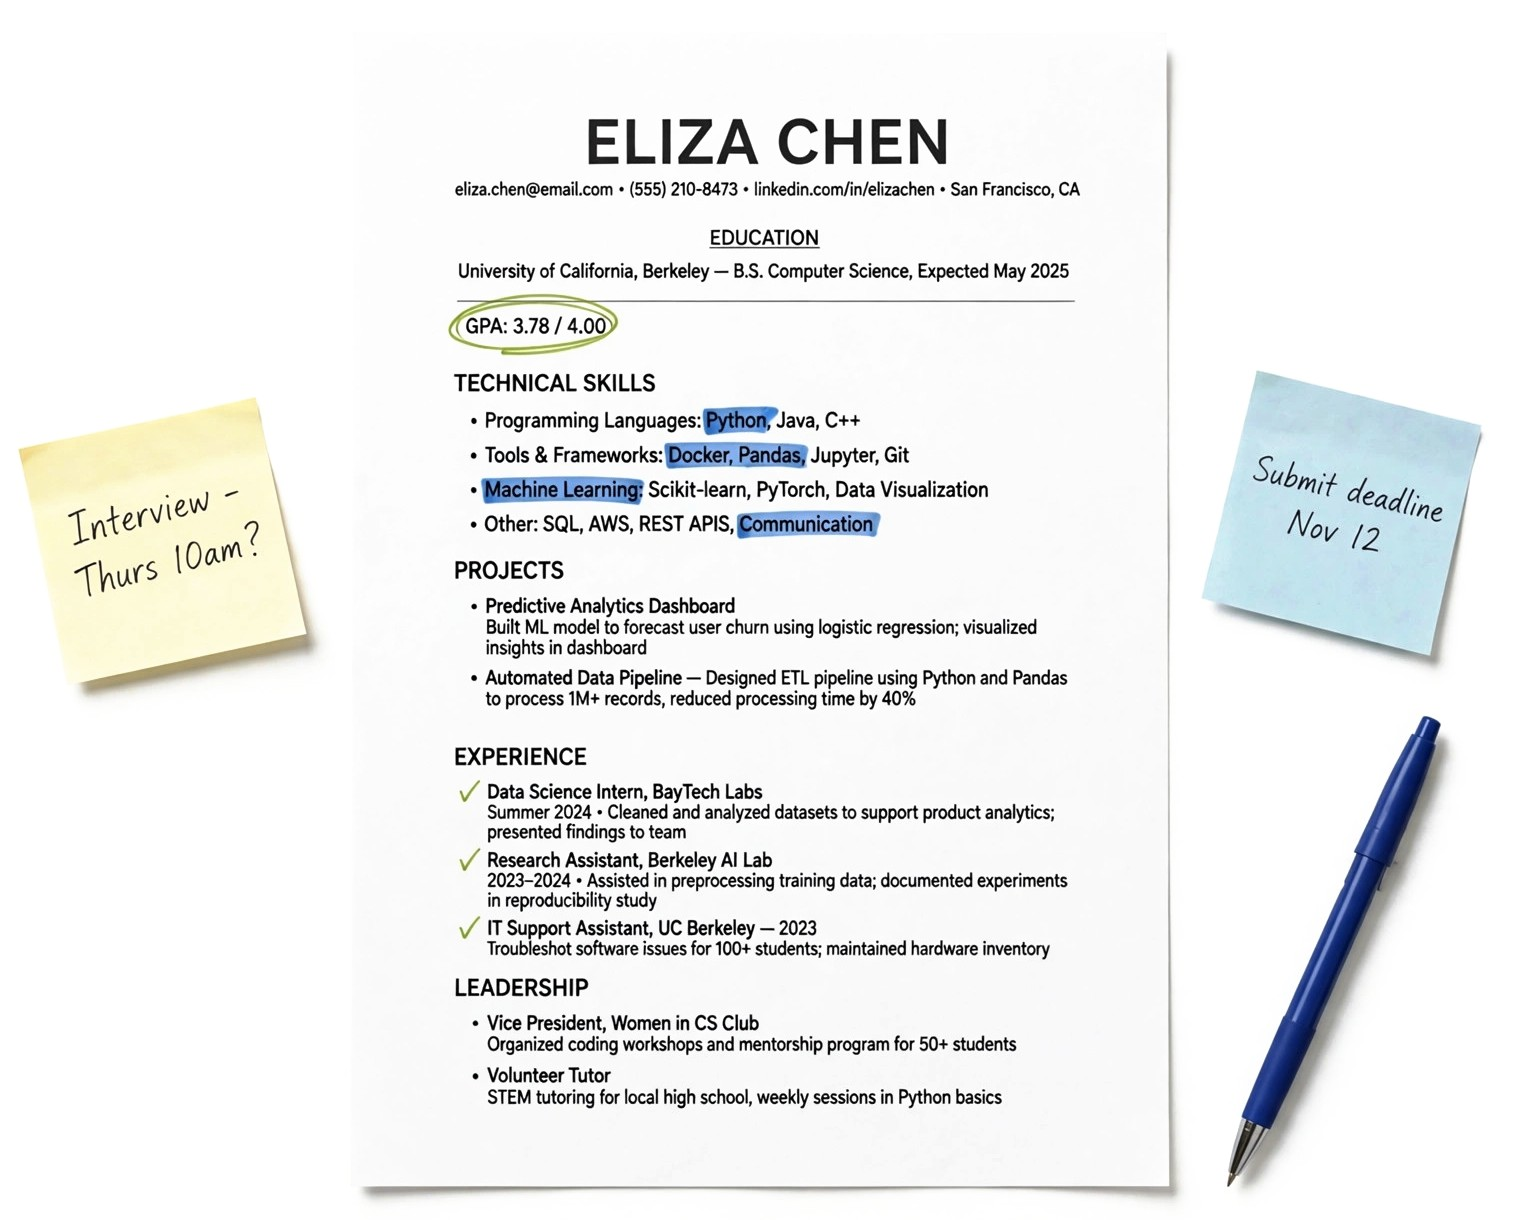
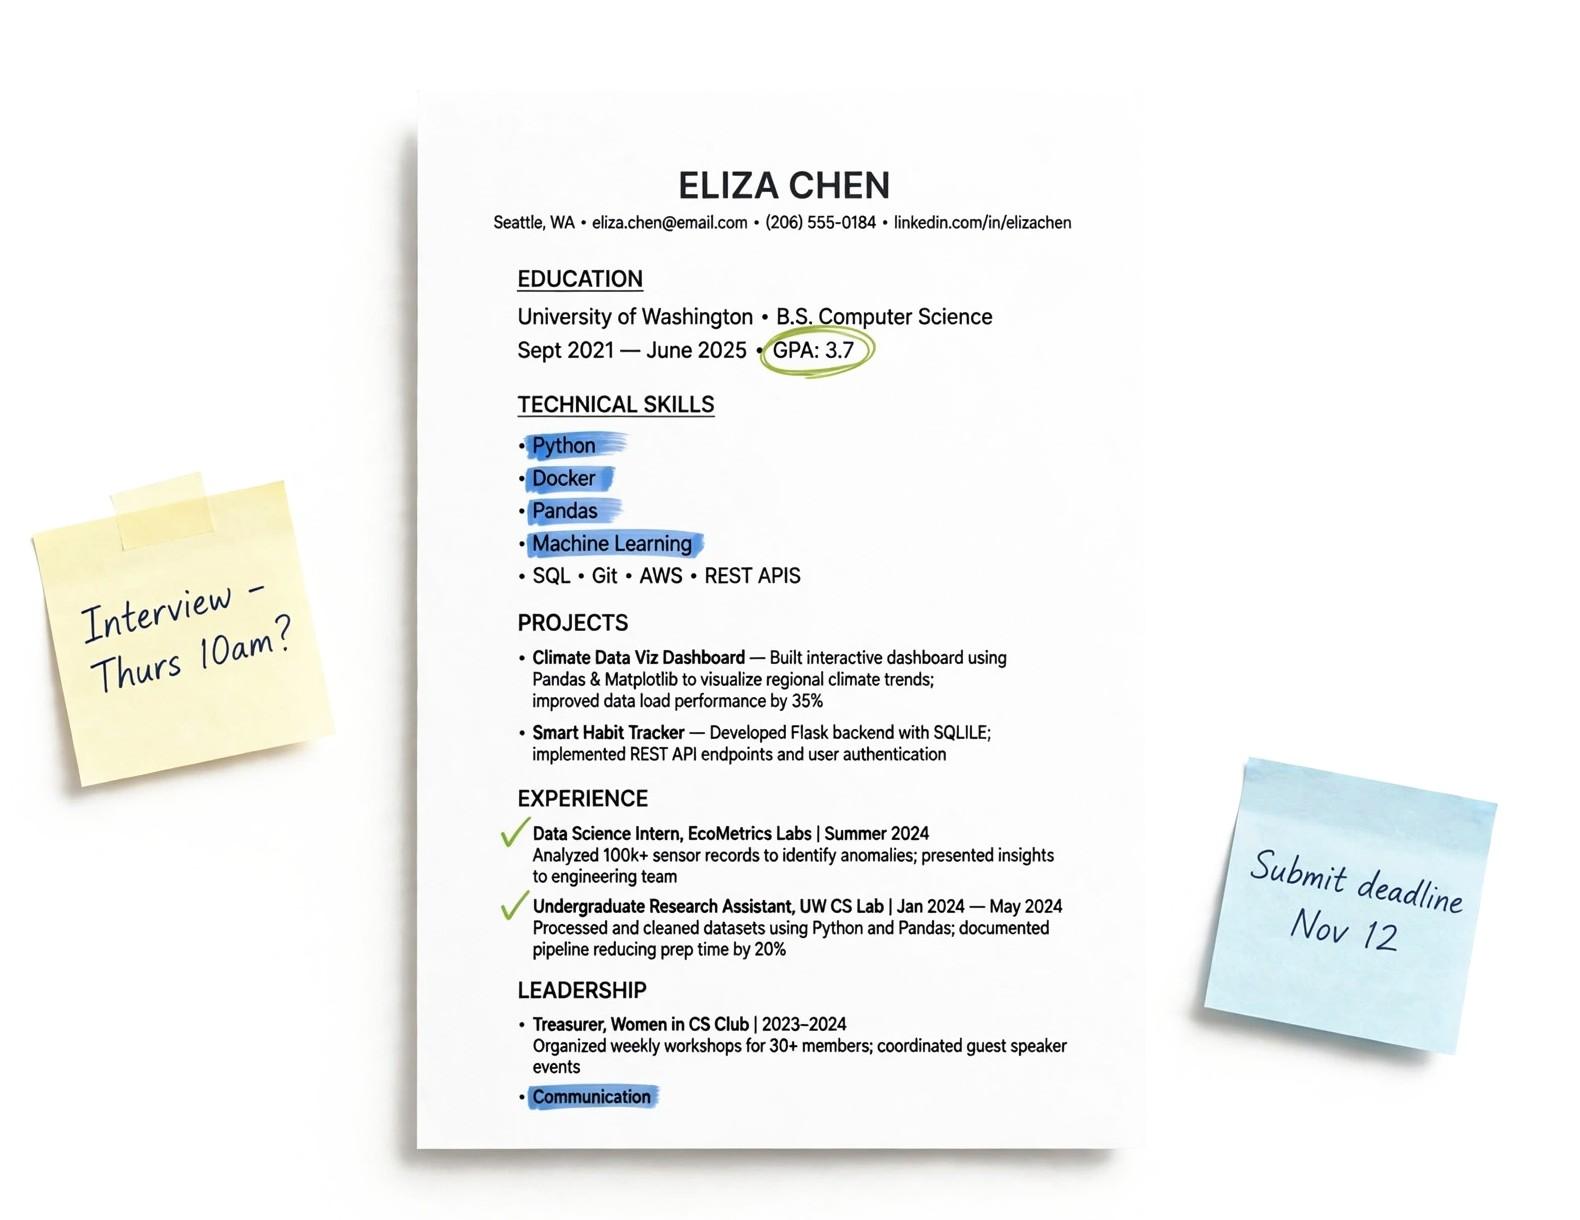
Resume visual: bigger photo, pen hand-writes a cursive slogan
Per the user: the pixel-generation reveal is removed from this page
(homepage keeps it), the photo is larger (wider visual column), and
the blue pen now comes alive — the photo was regenerated without a
pen, the pen was lifted out as its own multiply-blended element,
and it glides to the line under the photo and hand-writes 'Make
every line count.' in self-hosted Caveat cursive while the text
wipes in under its tip (with a writing bob), then rests at the
line's end. The photo entrance is now a soft rise + fade. Loops
while in view; reduced-motion and no-JS users see the photo and
the written line statically. Frame-verified mid-write (tip on the
text, no blend box) and at rest on the full page.

diff --git a/static/js/cursor.js b/static/js/cursor.js
@@ -219,6 +219,96 @@
     });
   });
 
+  /* Resume visual: no pixel reveal here — instead the photo's blue
+     pen comes alive. It rests at the end of the line under the photo,
+     glides to the start and hand-writes the cursive slogan while the
+     text wipes in under its tip, then settles back to rest. Loops
+     while the visual is in view; reduced-motion users simply see
+     the photo and the written line. */
+  var rVisual = document.querySelector('.sb-resume-visual');
+  var rPhoto = rVisual ? rVisual.querySelector('.sb-resume-photo') : null;
+  var rWrap = rVisual ? rVisual.querySelector('.sb-pen-wrap') : null;
+  var rText = rVisual ? rVisual.querySelector('.sb-write-text') : null;
+  var reduceMotion = window.matchMedia && window.matchMedia('(prefers-reduced-motion: reduce)').matches;
+  if (rVisual && rPhoto && rWrap && rText && !reduceMotion) {
+    var penPos = null, writePlaying = false, writeInView = false;
+    function wWait(ms) { return new Promise(function (r) { setTimeout(r, ms); }); }
+    /* Move the pen so its TIP lands on figure-point (tx, ty). The
+       pen image's tip sits at (12%, 97%) of its box and the wrap's
+       rotation origin is that same point, so rotation never moves
+       the tip. */
+    function penTo(tx, ty, rot, dur, easing) {
+      var pw = rWrap.offsetWidth, ph = rWrap.offsetHeight;
+      var to = { x: tx - 0.12 * pw, y: ty - 0.97 * ph, rot: rot };
+      var from = penPos || to;
+      penPos = to;
+      var a = rWrap.animate([
+        { transform: 'translate(' + from.x + 'px,' + from.y + 'px) rotate(' + from.rot + 'deg)' },
+        { transform: 'translate(' + to.x + 'px,' + to.y + 'px) rotate(' + to.rot + 'deg)' }
+      ], { duration: dur, easing: easing || 'ease-in-out', fill: 'forwards' });
+      return a.finished.catch(function () {});
+    }
+    function linePoints() {
+      var fr = rVisual.getBoundingClientRect(), tr = rText.getBoundingClientRect();
+      var baseY = tr.bottom - fr.top - tr.height * 0.16;
+      return {
+        startX: tr.left - fr.left + 6,
+        endX: tr.right - fr.left - 6,
+        restX: Math.min(tr.right - fr.left + 34, fr.width - rWrap.offsetWidth * 0.85),
+        y: baseY
+      };
+    }
+    function wipeText(dur) {
+      rText.style.opacity = '1';
+      var a = rText.animate([
+        { clipPath: 'inset(-12% 103% -12% -3%)' },
+        { clipPath: 'inset(-12% -3% -12% -3%)' }
+      ], { duration: dur, easing: 'linear', fill: 'forwards' });
+      return a.finished.catch(function () {});
+    }
+    function fadeText(dur) {
+      var a = rText.animate([{ opacity: 1 }, { opacity: 0 }], { duration: dur, easing: 'ease', fill: 'forwards' });
+      return a.finished.catch(function () {});
+    }
+    async function writeOnce() {
+      var p = linePoints();
+      /* Rest at the line's end, then glide to the start. */
+      await penTo(p.restX, p.y, 20, 10, 'linear');
+      await wWait(350);
+      await penTo(p.startX, p.y, 8, 700);
+      /* Write: pen travels the line while the text wipes in. */
+      rWrap.classList.add('is-writing');
+      var travel = penTo(p.endX, p.y, 8, 2600, 'linear');
+      var wipe = wipeText(2600);
+      await Promise.all([travel, wipe]);
+      rWrap.classList.remove('is-writing');
+      await penTo(p.restX, p.y, 20, 450);
+      await wWait(3200);
+      await fadeText(500);
+      await wWait(450);
+    }
+    async function writeLoop() {
+      if (writePlaying) return;
+      writePlaying = true;
+      rVisual.classList.add('sb-write-live');
+      while (writeInView) { await writeOnce(); }
+      writePlaying = false;
+    }
+    if ('IntersectionObserver' in window) {
+      new IntersectionObserver(function (entries) {
+        writeInView = entries[0].isIntersecting;
+        if (writeInView) {
+          rVisual.classList.add('sb-photo-in');
+          writeLoop();
+        }
+      }, { threshold: 0.3 }).observe(rVisual);
+    } else {
+      writeInView = true;
+      rVisual.classList.add('sb-photo-in');
+      writeLoop();
+    }
+  }
+
   /* Outline stage: the slogan's letters stream in one after another
      at a steady place-rate (~7/sec) with the solid block-pop, then
      settle to outline; the band dwells, clears and loops while in

diff --git a/static/css/kinetic.css b/static/css/kinetic.css
@@ -15,6 +15,7 @@
 
 /* Self-hosted OFL fonts (latin subsets, from Google Fonts). No external
    font request at runtime; system stacks remain as fallbacks. */
+@font-face { font-family: "Caveat"; font-style: normal; font-weight: 600; font-display: swap; src: url("../fonts/caveat-600.woff2") format("woff2"); }
 @font-face { font-family: "Barlow Condensed"; font-style: normal; font-weight: 600; font-display: swap; src: url("../fonts/barlow-condensed-600.woff2") format("woff2"); }
 @font-face { font-family: "Barlow Condensed"; font-style: normal; font-weight: 700; font-display: swap; src: url("../fonts/barlow-condensed-700.woff2") format("woff2"); }
 @font-face { font-family: "Barlow Condensed"; font-style: normal; font-weight: 800; font-display: swap; src: url("../fonts/barlow-condensed-800.woff2") format("woff2"); }
@@ -945,16 +946,50 @@ body.sb-workspace .hero h2.hero-h {
    the same multiply (full colour, no hero grayscale) to match. */
 .sb-work-intro--split .b-wrap {
   max-width: 1280px; display: grid;
-  grid-template-columns: 1.05fr 0.95fr; gap: 44px; align-items: center;
+  grid-template-columns: 0.92fr 1.08fr; gap: 44px; align-items: center;
 }
-.sb-work-intro--split .sb-display { font-size: clamp(3rem, 6.2vw, 5.6rem); }
+.sb-work-intro--split .sb-display { font-size: clamp(2.8rem, 5.8vw, 5.2rem); }
 .sb-resume-visual { position: relative; margin: 0; }
 .sb-resume-photo {
   display: block; width: 100%; height: auto;
-  aspect-ratio: 1540 / 1220; object-fit: cover;
+  aspect-ratio: 1580 / 1220; object-fit: cover;
   mix-blend-mode: multiply;
 }
-.sb-resume-visual .sb-pixel-canvas { mix-blend-mode: multiply; filter: none; }
+/* Photo entrance (this page has no pixel reveal): a soft rise + fade
+   when the visual first comes into view. */
+.sb-resume-visual.sb-photo-in .sb-resume-photo { animation: sbPhotoIn 0.9s cubic-bezier(0.2, 0.7, 0.2, 1) both; }
+@keyframes sbPhotoIn {
+  from { opacity: 0; transform: translateY(26px) scale(0.985); }
+  to { opacity: 1; transform: translateY(0) scale(1); }
+}
+/* The writing pen: the photo's blue pen, lifted out as its own
+   element (white ground, multiply — invisible over the paper). It
+   rests beside the slogan line, glides to the start and hand-writes
+   the line in cursive while the text wipes in under its tip. */
+.sb-write { position: relative; padding: 16px 4px 4px; min-height: 88px; }
+.sb-write-text {
+  display: inline-block; white-space: nowrap;
+  font-family: "Caveat", cursive; font-weight: 600;
+  font-size: clamp(2.1rem, 3.6vw, 3rem); line-height: 1.15;
+  color: var(--sb-blue); transform: rotate(-1.4deg);
+  padding: 0 0.12em;
+}
+.sb-resume-visual.sb-write-live .sb-write-text { opacity: 0; }
+.sb-pen-wrap {
+  position: absolute; left: 0; top: 0; width: 19%; z-index: 4;
+  pointer-events: none; opacity: 0;
+  mix-blend-mode: multiply;
+}
+.sb-resume-visual.sb-write-live .sb-pen-wrap { opacity: 1; transition: opacity 0.5s ease; }
+.sb-write-pen {
+  display: block; width: 100%; height: auto;
+  transform-origin: 12% 97%;
+}
+.sb-pen-wrap.is-writing .sb-write-pen { animation: sbPenBob 0.16s ease-in-out infinite alternate; }
+@keyframes sbPenBob {
+  from { transform: rotate(-1.6deg) translateY(0); }
+  to { transform: rotate(1.8deg) translateY(1.5px); }
+}
 @media (max-width: 900px) {
   .sb-work-intro--split .b-wrap { grid-template-columns: 1fr; gap: 28px; }
 }

diff --git a/templates/resume_index.html b/templates/resume_index.html
@@ -32,8 +32,12 @@
             </h1>
             <p class="sb-lede">Upload a resume and get readable, evidence-based feedback — what matches, what is missing, and what to fix first. No decorative scores, no mystery numbers.</p>
             </div>
-            <figure class="sb-resume-visual" data-gen-reveal>
-                <img class="sb-resume-photo" src="{{ url_for('static', filename='img/resume-annotated.jpg') }}" alt="A printed student resume reviewed by hand — key skills highlighted in blue, experience ticked in green, with sticky-note reminders for an interview and a submission deadline" width="1540" height="1220">
+            <figure class="sb-resume-visual">
+                <img class="sb-resume-photo" src="{{ url_for('static', filename='img/resume-annotated.jpg') }}" alt="A printed student resume reviewed by hand — key skills highlighted in blue, experience ticked in green, with sticky-note reminders for an interview and a submission deadline" width="1580" height="1220">
+                <div class="sb-write" aria-hidden="true">
+                    <span class="sb-write-text">Make every line count.</span>
+                </div>
+                <span class="sb-pen-wrap" aria-hidden="true"><img class="sb-write-pen" src="{{ url_for('static', filename='img/resume-pen.jpg') }}" alt="" width="325" height="555"></span>
             </figure>
         </div>
     </section>
